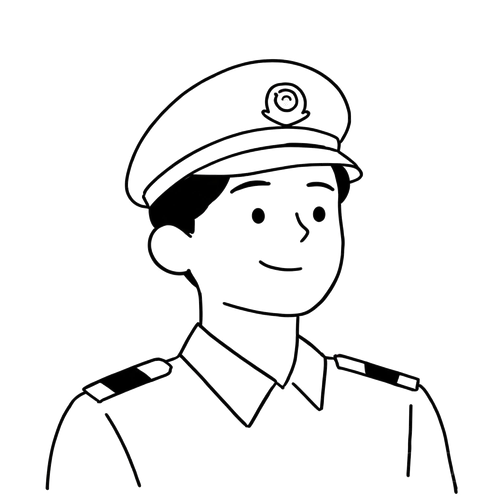
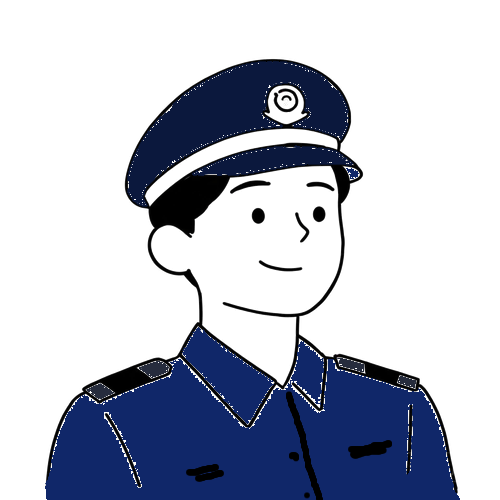
feat(police): 占位头像换彩色版，头像框透明底并放大
- officer-default.png 更新为彩色男警版（深蓝警帽/制服、透明背景），替代线稿白色填充版；原版备份在 .workbuddy/tmp
- AgentCard .card-avatar 88→104、AgentProfileView .ap-hero-avatar 156→184（移动端 96→116），头像框白底改透明，保持与背景色块的间隙
- changelog 同步合并更新

Changed region(s): [[0.09, 0.66, 0.93, 1.0], [0.24, 0.12, 0.72, 0.42]]

diff --git a/web/src/views/AgentProfileView.vue b/web/src/views/AgentProfileView.vue
@@ -605,7 +605,7 @@ onUnmounted(() => { destroyChart(); document.removeEventListener('click', handle
   position: relative;
   border-radius: 20px;
   overflow: visible;
-  min-height: 200px;
+  min-height: 220px;
   padding: 0;
 }
 .ap-hero-bg {
@@ -615,7 +615,7 @@ onUnmounted(() => { destroyChart(); document.removeEventListener('click', handle
   bottom: 0;
   height: 80%;
   margin: 0;
-  padding: 18px 24px 18px 196px;
+  padding: 18px 24px 18px 224px;
   display: flex;
   align-items: center;
   gap: 12px;
@@ -633,14 +633,14 @@ onUnmounted(() => { destroyChart(); document.removeEventListener('click', handle
 }
 .ap-hero-avatar {
   position: absolute;
-  top: 16px;
-  left: 16px;
+  top: 18px;
+  left: 18px;
   z-index: 2;
-  width: 156px;
-  height: 156px;
-  border-radius: 20px;
+  width: 184px;
+  height: 184px;
+  border-radius: 24px;
   overflow: hidden;
-  background: #ffffff;
+  background: transparent; // 透明底色，与档案背景块自然衔接
   border: 1px solid var(--gray-150);
   box-shadow: none;
   img { display: block; width: 100%; height: 100%; object-fit: cover; }
@@ -1091,9 +1091,9 @@ onUnmounted(() => { destroyChart(); document.removeEventListener('click', handle
 }
 @media (max-width: 640px) {
   .ap-stats-grid { grid-template-columns: repeat(2, 1fr); }
-  .ap-hero { min-height: 184px; padding: 0; }
-  .ap-hero-bg { position: absolute; left: 0; right: 0; bottom: 0; height: 80%; margin: 0; padding: 14px 16px 14px 120px; }
-  .ap-hero-avatar { width: 96px; height: 96px; border-radius: 16px; left: 12px; top: 12px; }
+  .ap-hero { min-height: 208px; padding: 0; }
+  .ap-hero-bg { position: absolute; left: 0; right: 0; bottom: 0; height: 80%; margin: 0; padding: 14px 16px 14px 142px; }
+  .ap-hero-avatar { width: 116px; height: 116px; border-radius: 18px; left: 14px; top: 14px; }
   .ap-hero-name { font-size: 18px; }
 }
 </style>

diff --git a/web/src/components/police/AgentCard.vue b/web/src/components/police/AgentCard.vue
@@ -227,17 +227,17 @@ function onDelete(e) {
 .card-avatar-container {
   position: absolute;
   left: 0;
-  top: 28px; // 调整使下半部在背景块上方
+  top: 18px; // 放大后保持与背景色块的浮出/底部间隙
   z-index: 2;
 }
 
 .card-avatar {
-  width: 88px;
-  height: 88px;
-  border-radius: 18px;
+  width: 104px;
+  height: 104px;
+  border-radius: 22px;
   overflow: hidden;
-  background: #ffffff;
-  // 与档案页 ap-hero-avatar 保持一致：圆角矩形、白底、无阴影、无描边，浮于背景块之上
+  background: transparent; // 透明底色，靠 officer-default.png 自身轮廓与背景色块形成层次
+  // 与档案页 ap-hero-avatar 保持一致：浮于背景块之上、无描边阴影
 
   img {
     display: block;
@@ -252,7 +252,7 @@ function onDelete(e) {
   display: flex;
   align-items: center;
   gap: 12px;
-  padding: 14px 14px 14px 102px; // 左侧给头像留空间
+  padding: 14px 14px 14px 118px; // 左侧给放大的头像留空间，保持与头像 14px 间隙
   min-height: 68px;
   background: linear-gradient(135deg, #f7f8fa 0%, #e8ecf2 100%);
   border-radius: 14px;

diff --git a/docs/develop-guides/changelog.md b/docs/develop-guides/changelog.md
@@ -6,7 +6,7 @@
 
 ## v0.7.2 (current)
 
-- 智能体头像统一本地化（公安内网零外网依赖）：新增 `web/public/avatars/officer-default.png` 统一占位图（用户提供素材），`policeAvatar.js` `getOfficerAvatar`/`resolveAgentAvatar` 统一回退到该图（已配置 avatar/icon 仍优先展示，兼容 emoji key 与原始 SVG 坏数据）；数字警员广场/档案页、协助伙伴管理/装备面板、智能体切换下拉、聊天子智能体头像、编辑弹窗预览、智能体档案/卡片头像均统一显示该占位；修复 `generateRandomPoliceAvatar` 返回原始 SVG 文本而非 data URI 导致头像无法渲染的 bug（`getPoliceAvatarById` 同步修复）。补充 `policeAvatar.test.js` 7 项单测。
+- 智能体头像统一本地化（公安内网零外网依赖）：新增 `web/public/avatars/officer-default.png` 统一占位图（用户提供彩色版，深蓝警帽/制服、透明背景），`policeAvatar.js` `getOfficerAvatar`/`resolveAgentAvatar` 统一回退到该图（已配置 avatar/icon 仍优先展示，兼容 emoji key 与原始 SVG 坏数据）；数字警员广场/档案页、协助伙伴管理/装备面板、智能体切换下拉、聊天子智能体头像、编辑弹窗预览、智能体档案/卡片头像均统一显示该占位；修复 `generateRandomPoliceAvatar` 返回原始 SVG 文本而非 data URI 导致头像无法渲染的 bug（`getPoliceAvatarById` 同步修复）。AgentCard `.card-avatar` 与 AgentProfileView `.ap-hero-avatar` 头像框改为透明底色、放大尺寸（88→104 / 156→184 / 移动 96→116）并保持与背景色块的间隙。补充 `policeAvatar.test.js` 7 项单测。
 
 - 新增 AI 回答知识库片段角标引用：模型以 `[ref:CHUNK_ID]` 标记来源，前端渲染期确定性转为深蓝 `[]` 上标（点击弹片段详情），来源面板稳定展示；ARQ worker 启动初始化知识库 retriever，`query_kb` 结果加入中间件卸载豁免集，智能体 SKILL.md 同步引用规则。全局配色统一为警察蓝（品牌色阶与强调色），并修复侧边栏父子路由 `active-class` 包含式匹配导致的高亮冲突。
 - 新增 PDF 解析前置页树校验：PDF 进入 PyPDFLoader、MinerU 或 OCR 引擎前会用 PyMuPDF 逐页加载页槽，提前识别加密、空文档、null 页槽和非 Page 对象等结构异常，并返回可操作的中文错误，避免解析服务内层延迟失败。
